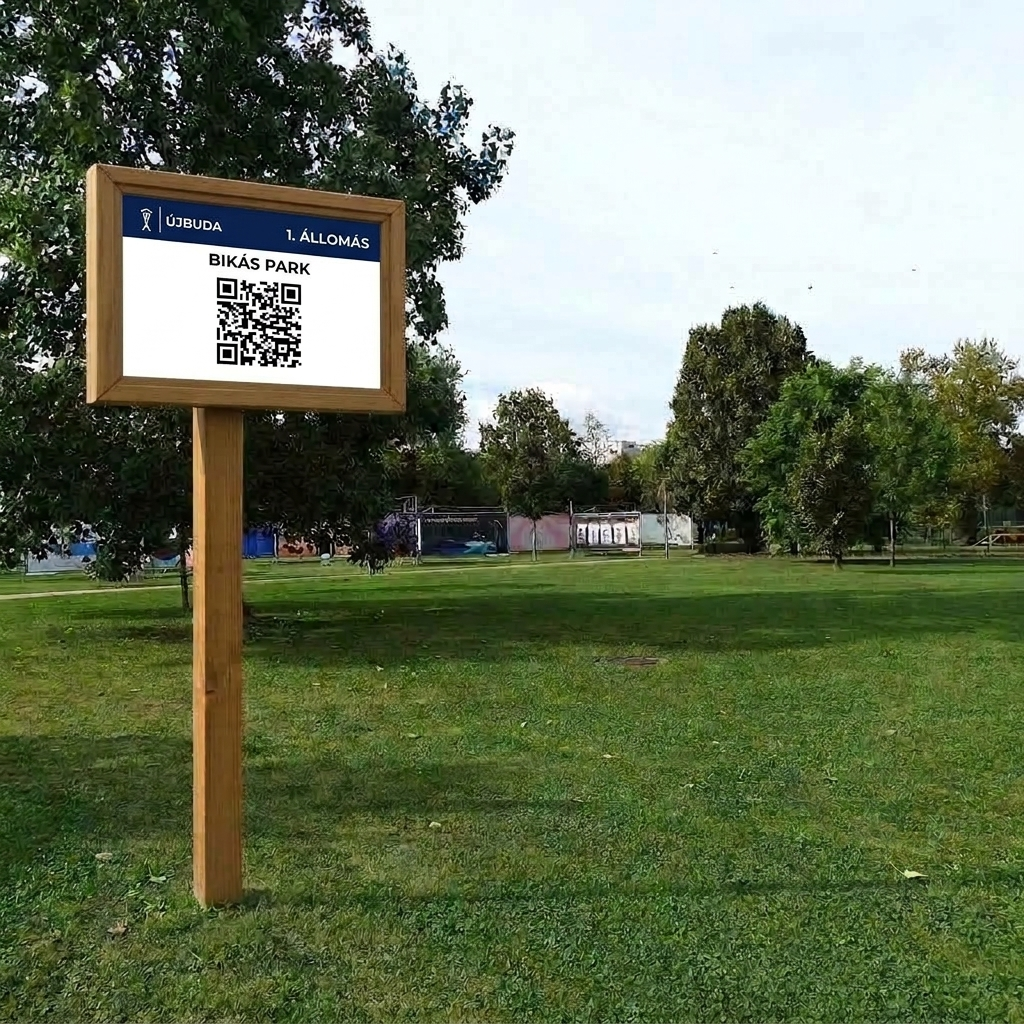
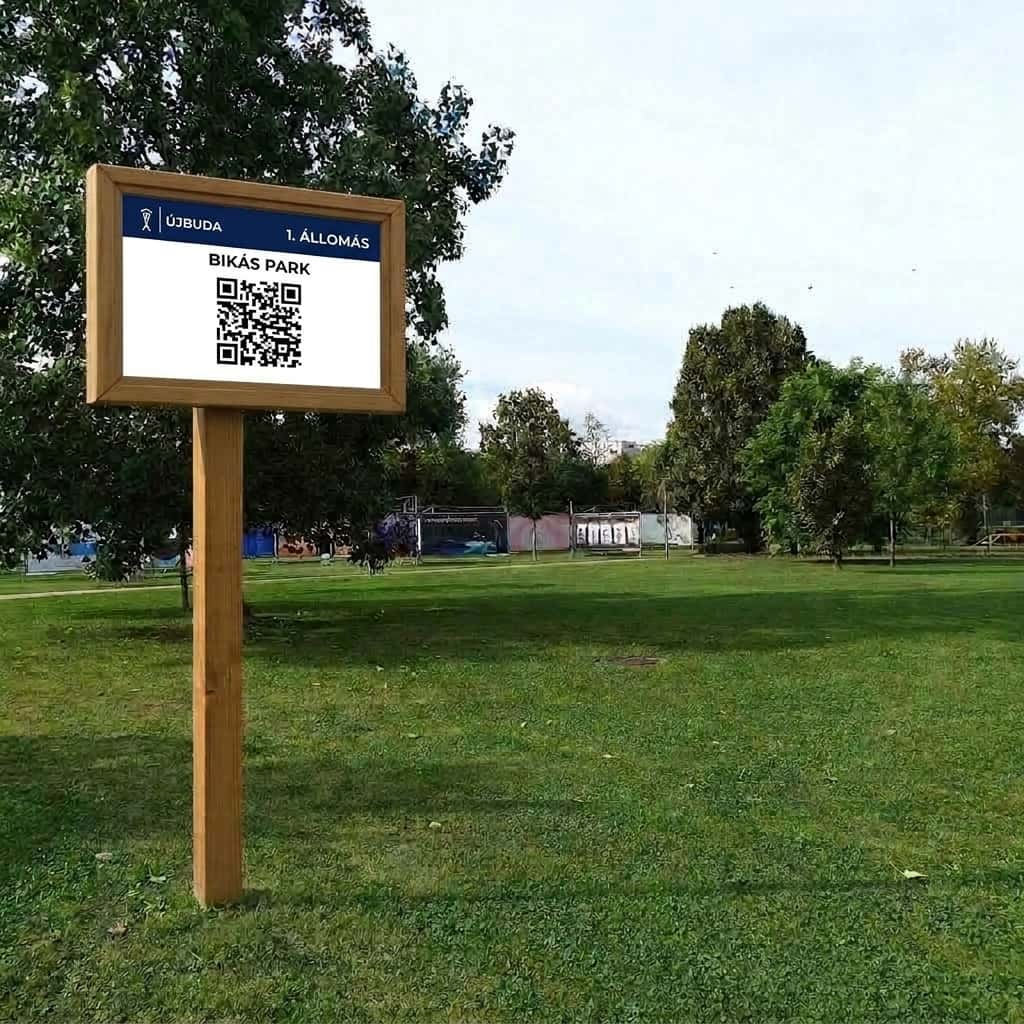
reduce images sizes, and modify some text content

diff --git a/index.html b/index.html
@@ -410,6 +410,13 @@
         text-decoration: none;
       }
 
+      .small {
+        display: inline-block;
+        font-size: 14px;
+        margin-top: 0.8em;
+        color: rgba(60, 74, 70, 0.75);
+      }
+
       /* ---------- Helyszín ---------- */
       .site-photo {
         border-radius: 18px;
@@ -530,12 +537,10 @@
       />
       <div class="hero-inner">
         <span class="tag">Javaslat Újbuda Önkormányzata részére</span>
-        <h1>
-          Okostelefonból aktív játékszer: digitális kaland a Bikás parkban!
-        </h1>
+        <h1>Digitális platform a Bikás parkban!</h1>
         <p class="lead">
-          Interaktív, QR-kódos felfedezőjáték, amely a szabadba csábítja a
-          gyerekeket és családokat.
+          Híd a képernyő és a szabadban töltött idő között: passzív görgetés
+          helyett felfedezés, mozgás és értékes tartalom.
         </p>
       </div>
     </section>
@@ -548,7 +553,7 @@
             <div class="kicker">Élménydús mozgás a szabadban</div>
             <h2 class="section-title">A digitális generáció megszólítása</h2>
             <p class="lede">
-              A gyerekek ma idejük nagy részét a képernyők előtt töltik. A Bikás
+              A fiatalok ma idejük nagy részét a képernyők előtt töltik. A Bikás
               Park Felfedező nem harcol a okostelefonok ellen, hanem
               szövetségesül hívja őket. A kijelzőt a fizikai aktivitás és a
               játékos ismeretterjesztés eszközévé formálja.
@@ -704,11 +709,11 @@
     <section id="demo" style="background: var(--cream-2)">
       <div class="wrap">
         <div class="kicker">Élő demó</div>
-        <h2 class="section-title">A prototípus elkészült — tesztelje most!</h2>
+        <h2 class="section-title">Nézze meg a játékot!</h2>
         <p class="lede">
           Az alábbi QR-kód a Bikás Park Felfedező működő demóváltozatához vezet.
           Nincs szükség applikáció letöltésére, a telefon kamerájával azonnal
-          indítható a játékélmény.
+          indítható a játék.
         </p>
         <div class="demo-box reveal">
           <div class="qr">
@@ -721,7 +726,11 @@
             <h3>Próbálja ki a játékmenetet</h3>
             <p>
               Tapasztalja meg a QR-beolvasást, Taurus segítségét, a kvízeket és
-              a puzzle-élményt közvetlenül az okostelefonján.
+              a puzzle-élményt közvetlenül az okostelefonján. <br />
+              <span class="small"
+                >A demó verzióban nem kell a qr-kódot beolvasni. Elég, ha a
+                "sikeres beolvasás szimulálása" gombra kattint.</span
+              >
             </p>
             <a
               class="demo-link"
@@ -740,7 +749,9 @@
       <div class="wrap col-2">
         <div>
           <div class="kicker">Rugalmas platform</div>
-          <h2 class="section-title">Nem csak egy egyszerű játék</h2>
+          <h2 class="section-title">
+            További lehetőségek
+          </h2>
           <p class="lede">
             A kihelyezett QR-kódok nem egyetlen játékhoz kötött statikus pontok,
             hanem egy folyamatosan újrahasznosítható digitális infrastruktúrát
@@ -778,7 +789,8 @@
           <div class="benefit">
             <h3>Gyors és egyszerű telepítés</h3>
             <p>
-              Nincs szükség bonyolult hálózatra vagy hardverre: a park arculatához illeszkedő QR-táblák pillanatok alatt kihelyezhetők.
+              Nincs szükség bonyolult hálózatra vagy hardverre: a park
+              arculatához illeszkedő QR-táblák pillanatok alatt kihelyezhetők.
             </p>
           </div>
           <div class="benefit">
@@ -819,7 +831,7 @@
       <div class="wrap">
         <div class="contact-row">
           <h2>
-            Valósítsuk meg együtt Újbuda legmodernebb szabadtéri élményét!
+            Valósítsuk meg együtt Újbuda előremutató szabadtéri élményét!
           </h2>
           <div class="contact-details">
             <div>QRMB — QR-kód alapú interaktív élmények</div>
